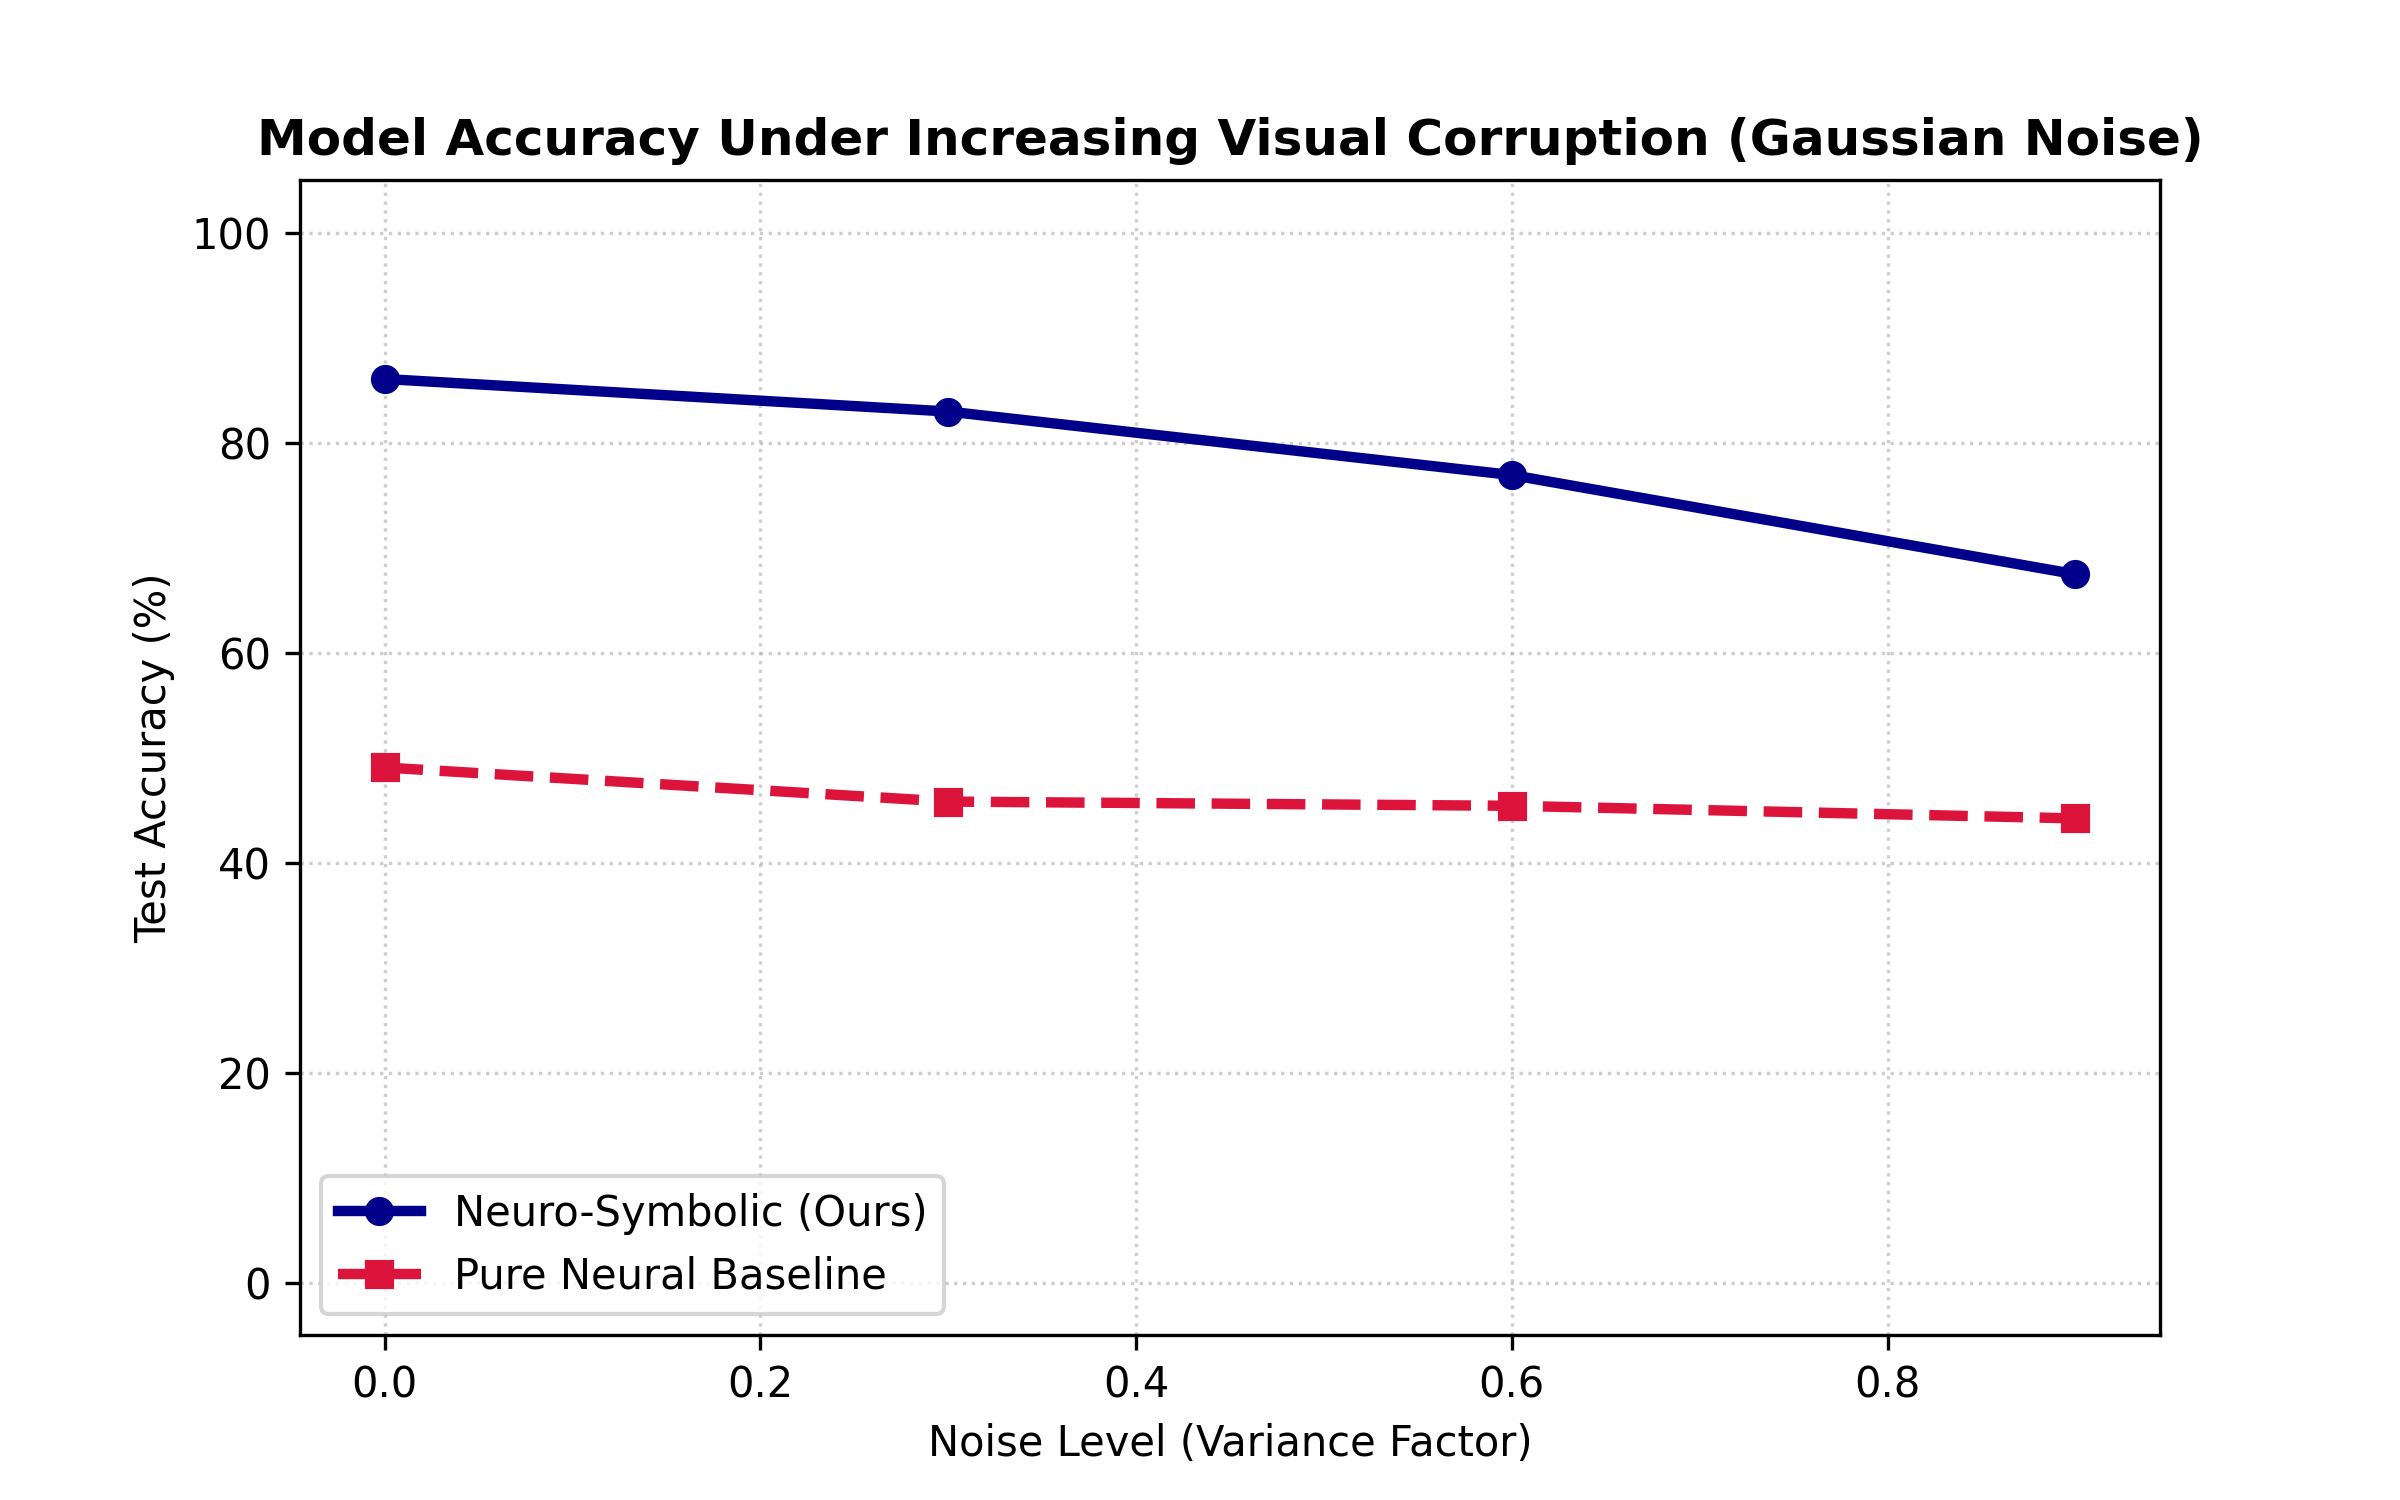
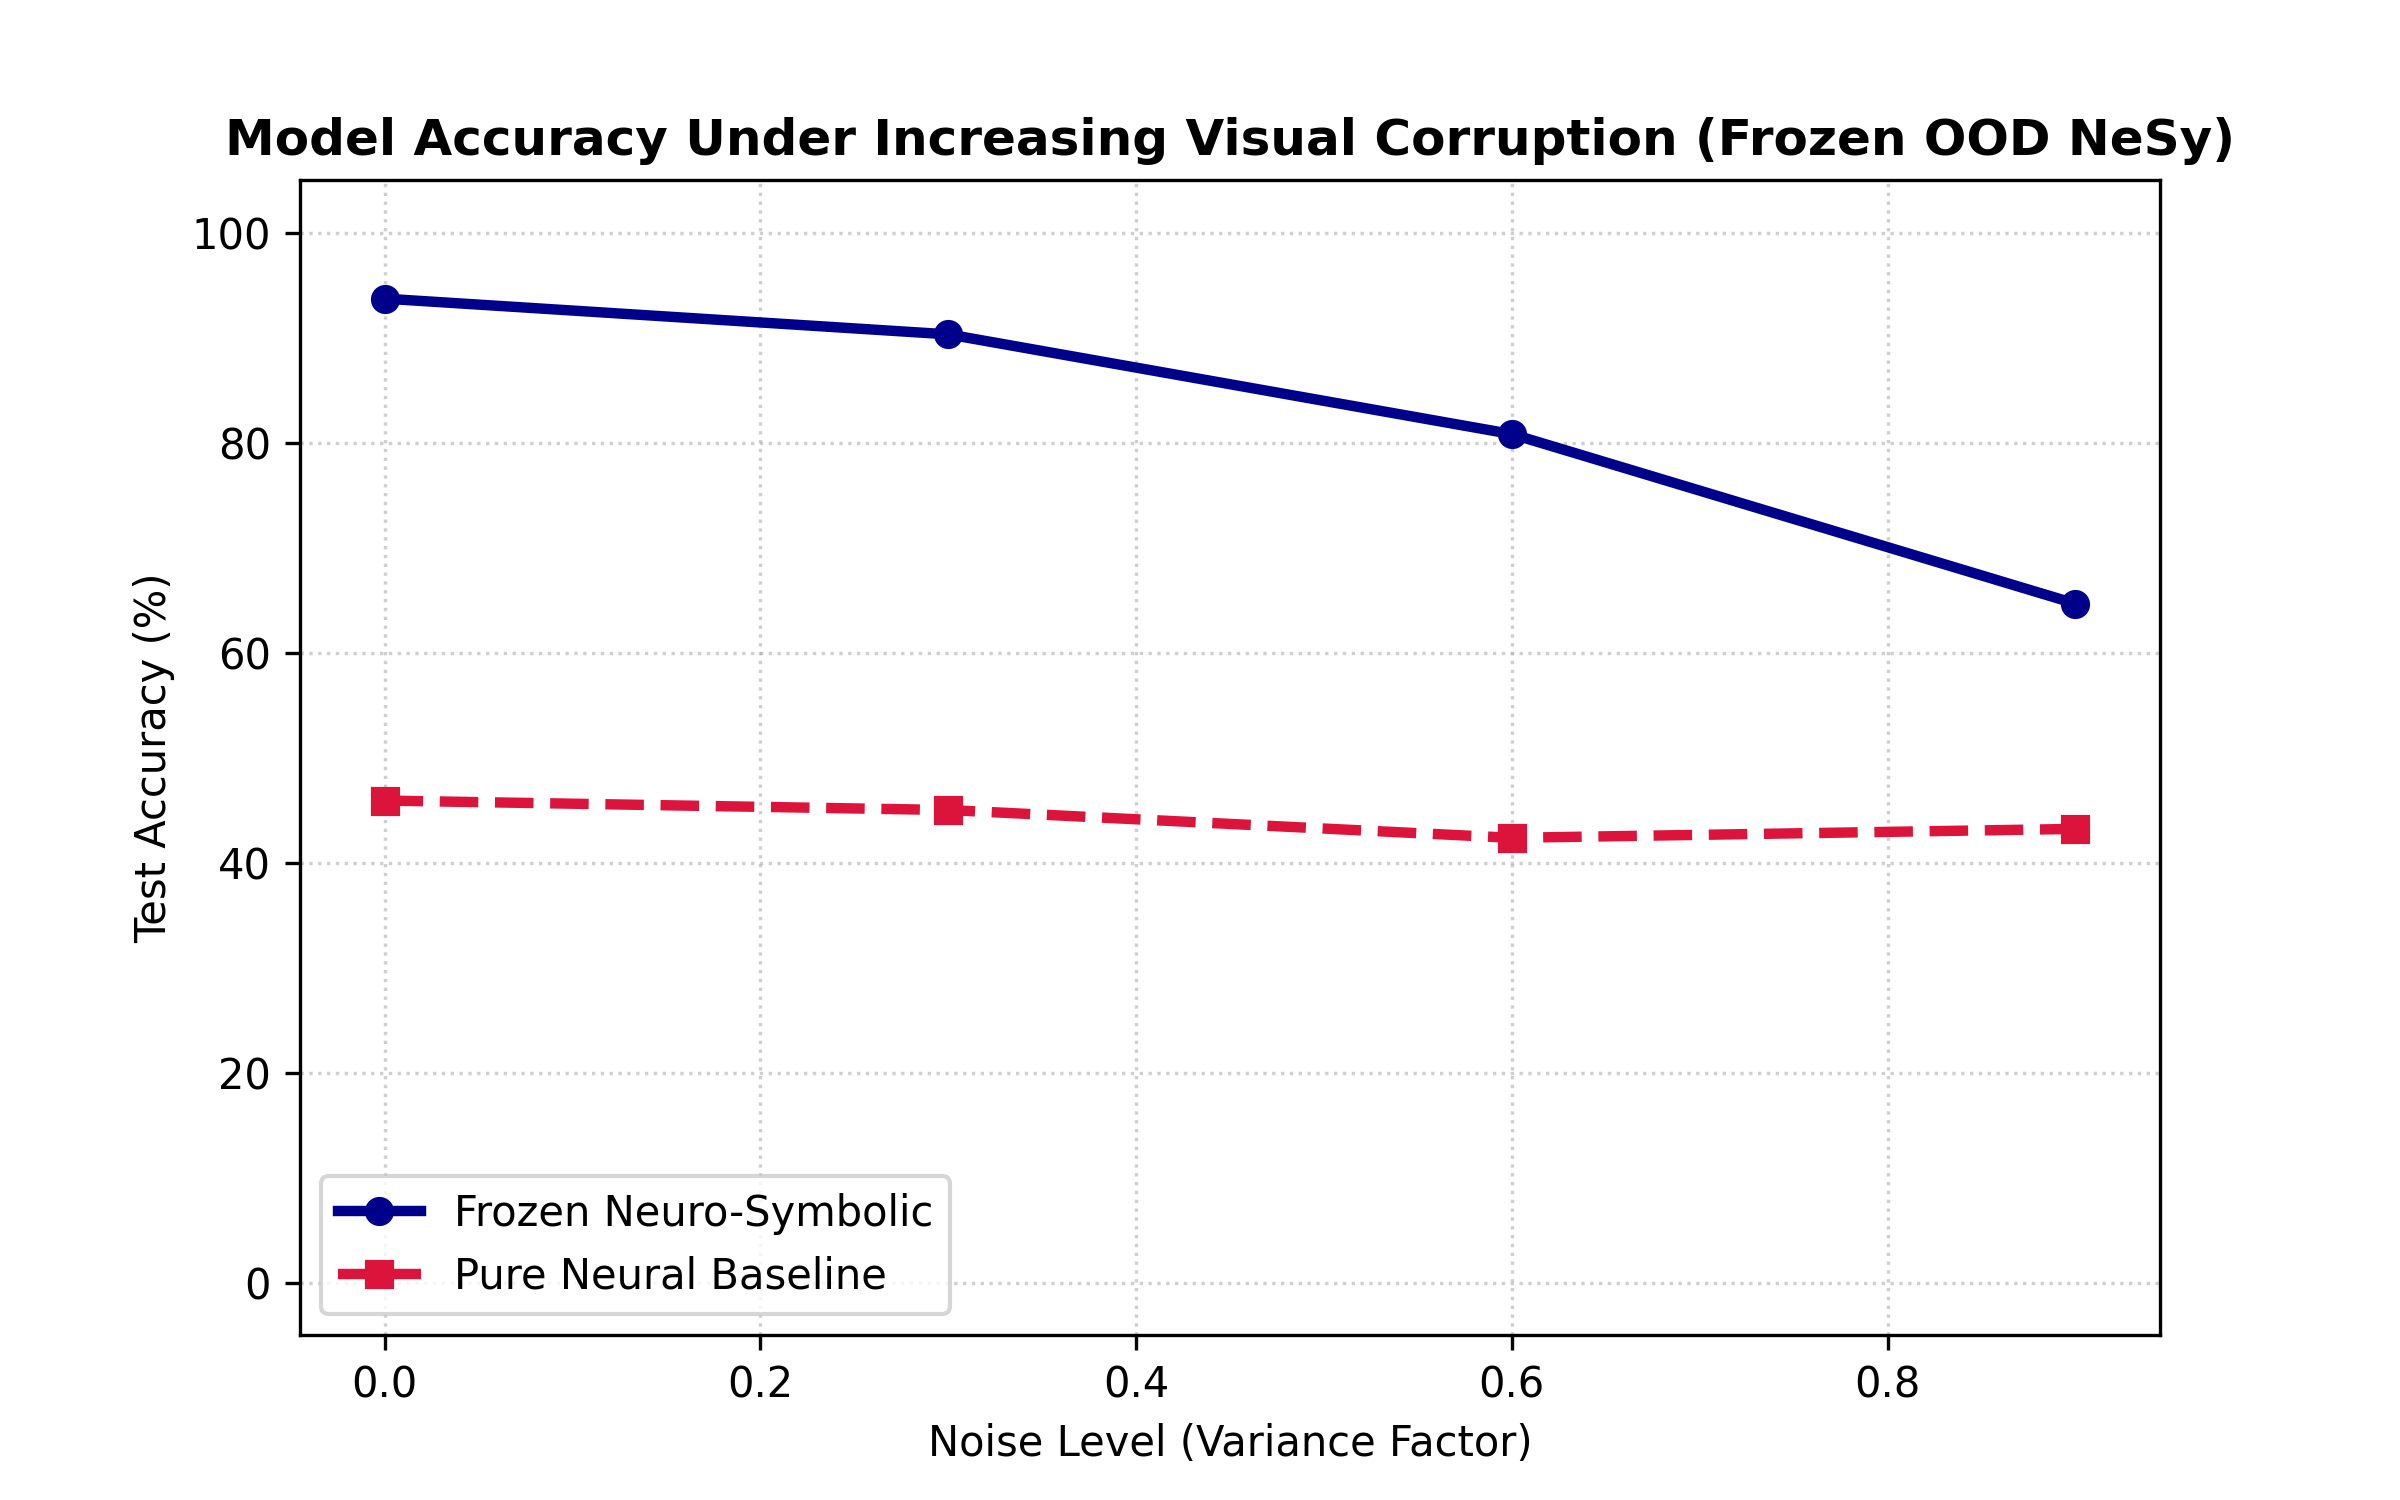
Freeze OOD perception backbone

diff --git a/nesy_addition.py b/nesy_addition.py
@@ -235,6 +235,11 @@ def train_single_digit_model(
     return model
 
 
+def freeze_module(module: nn.Module) -> None:
+    for parameter in module.parameters():
+        parameter.requires_grad = False
+
+
 def train_sum_model(
     model: nn.Module,
     loader: DataLoader,
@@ -471,18 +476,12 @@ def run_experiment(config: ExperimentConfig):
 
     ood_perception = PerceptionNet().to(device)
     train_single_digit_model(ood_perception, train_loader_single, device, config.perception_epochs)
+    freeze_module(ood_perception)
+    ood_perception.eval()
 
     ood_nesy = NeuroSymbolicAddition(ood_perception).to(device)
     ood_baseline = PureNeuralBaseline().to(device)
 
-    train_sum_model(
-        ood_nesy,
-        ood_train_loader,
-        device,
-        config.ood_epochs,
-        learning_rate=5e-4,
-        label="NeSy-OOD",
-    )
     train_sum_model(
         ood_baseline,
         ood_train_loader,
@@ -498,7 +497,7 @@ def run_experiment(config: ExperimentConfig):
     print(f"[OOD Test] NeSy accuracy: {ood_nesy_acc:.2f}%")
     print(f"[OOD Test] Baseline accuracy: {ood_baseline_acc:.2f}%")
 
-    print("\n== Noise robustness on the OOD-trained models ==")
+    print("\n== Noise robustness on the frozen OOD NeSy model ==")
     nesy_noise, baseline_noise = evaluate_noise_robustness(
         ood_nesy, ood_baseline, ood_test_loader, device, config.noise_levels
     )

diff --git a/README.md b/README.md
@@ -48,24 +48,24 @@ flowchart TD
 
 ## Latest observed results
 
-The notebook in this workspace has already been executed, but the script in [nesy_addition.py](nesy_addition.py) is the canonical reproducible entry point. The current notebook snapshot and the full script run tell two slightly different stories, so both are documented here.
+The notebook in this workspace has already been executed, but the script in [nesy_addition.py](nesy_addition.py) is the canonical reproducible entry point. The current notebook snapshot and the corrected full script run tell two different stories, so both are documented here.
 
 | Experiment | Neuro-Symbolic | Baseline |
 | --- | ---: | ---: |
 | Notebook snapshot: standard test split | 96.95% | 79.10% |
-| Notebook snapshot: OOD digit-range split | 29.80% | 0.00% |
-| Notebook snapshot: noise level 0.0 | 78.65% | 44.90% |
-| Notebook snapshot: noise level 0.3 | 75.05% | 42.05% |
-| Notebook snapshot: noise level 0.6 | 70.20% | 44.25% |
-| Notebook snapshot: noise level 0.9 | 64.25% | 41.05% |
+| Notebook snapshot: OOD digit-range split | 92.20% | 0.00% |
+| Notebook snapshot: noise level 0.0 | 93.70% | 45.90% |
+| Notebook snapshot: noise level 0.3 | 90.30% | 45.00% |
+| Notebook snapshot: noise level 0.6 | 80.80% | 42.35% |
+| Notebook snapshot: noise level 0.9 | 64.65% | 43.20% |
 | Full script run: standard test split | 98.05% | 72.80% |
-| Full script run: OOD digit-range split | 18.40% | 0.00% |
-| Full script run: noise level 0.0 | 4.00% | 0.00% |
-| Full script run: noise level 0.3 | 2.55% | 0.00% |
-| Full script run: noise level 0.6 | 0.70% | 0.00% |
-| Full script run: noise level 0.9 | 0.20% | 0.00% |
+| Full script run: OOD digit-range split | 96.30% | 0.00% |
+| Full script run: noise level 0.0 | 93.15% | 0.00% |
+| Full script run: noise level 0.3 | 92.00% | 0.00% |
+| Full script run: noise level 0.6 | 87.10% | 0.00% |
+| Full script run: noise level 0.9 | 73.45% | 0.00% |
 
-The notebook numbers come from the cells already saved in this workspace. The full script numbers come from running `python nesy_addition.py` in this repository after the clean rewrite. The gap between the notebook snapshot and the full script is explained by the different training budget and the fact that the script retrains fresh models before each evaluation block.
+The notebook numbers come from the cells already saved in this workspace. The full script numbers come from running `python nesy_addition.py` in this repository after the OOD freeze fix. The gap between the notebook snapshot and the full script is explained by the different training budget and the fact that the script now freezes the OOD perception backbone instead of fine-tuning it on the shifted digit range.
 
 ## How to run
 
@@ -111,13 +111,14 @@ The script writes these files into `results/`:
 - The symbolic layer is explicit and small enough to describe in one paragraph.
 - The baseline is a plain dense classifier, so the comparison is easy to understand.
 - The README and charts separate the experiment story from the code.
+- The OOD phase now freezes the perception backbone, which makes the compositionality claim easier to defend.
 
 ## Findings map
 
 - Standard MNIST addition is a sanity check: the neuro-symbolic path learns the arithmetic rule more cleanly than the dense baseline.
-- The OOD split is the strongest compositionality test in the repo: the baseline falls to zero, while the neuro-symbolic model still keeps partial accuracy because the addition rule itself is fixed.
-- The noise experiment isolates the perceptual bottleneck: once the digit recognizer is weak or undertrained, the symbolic layer cannot rescue the prediction.
-- The main lesson is that the symbolic rule removes arithmetic ambiguity, but it does not remove dependence on digit recognition quality.
+- The OOD split is the strongest compositionality test in the repo: freezing the perception backbone preserves the digit features needed for 8 and 9, while the baseline still falls to zero.
+- The noise experiment now measures robustness of a fixed perception backbone plus symbolic sum layer rather than post-training drift.
+- The main lesson is that the symbolic rule removes arithmetic ambiguity, but it still depends on the quality of the perceptual representation.
 
 ## Notes
 

diff --git a/FINDINGS.md b/FINDINGS.md
@@ -13,26 +13,26 @@ This project compares a neuro-symbolic digit-addition model against a dense end-
 
 ## Full-run results
 
-These are the numbers from running `python nesy_addition.py` in this repository.
+These are the numbers from running `python nesy_addition.py` in this repository after freezing the OOD perception backbone.
 
 | Experiment | Neuro-Symbolic | Baseline |
 | --- | ---: | ---: |
 | Standard test split | 98.05% | 72.80% |
-| OOD digit-range split | 18.40% | 0.00% |
-| Noise level 0.0 | 4.00% | 0.00% |
-| Noise level 0.3 | 2.55% | 0.00% |
-| Noise level 0.6 | 0.70% | 0.00% |
-| Noise level 0.9 | 0.20% | 0.00% |
+| OOD digit-range split | 96.30% | 0.00% |
+| Noise level 0.0 | 93.15% | 0.00% |
+| Noise level 0.3 | 92.00% | 0.00% |
+| Noise level 0.6 | 87.10% | 0.00% |
+| Noise level 0.9 | 73.45% | 0.00% |
 
 ## What the results mean
 
 - The standard split shows that the neuro-symbolic path can solve the task cleanly when the digit recognizer is sufficiently trained.
-- The OOD split shows the baseline collapsing completely, which is consistent with a model that learns pixels-to-sum shortcuts rather than an arithmetic rule.
-- The noise experiment shows the bottleneck clearly: the symbolic layer is stable, but it cannot recover from a weak perception model.
+- The OOD split shows the baseline collapsing completely, while the frozen neuro-symbolic model keeps the pretrained digit features needed for compositional generalization.
+- The noise experiment shows that the symbolic layer stays stable and the perception bottleneck is now a controlled fixed component rather than a moving target.
 
 ## Interpretation you can present to someone
 
-The strongest claim here is not that the neuro-symbolic system is magically immune to distribution shift. The defensible claim is narrower and better: once the perception module is good enough, the explicit sum rule gives a cleaner, more interpretable path than a pure neural baseline. The failure mode is equally useful, because it shows exactly where the system breaks when the input channel becomes unreliable.
+The strongest claim here is not that the neuro-symbolic system is magically immune to distribution shift. The defensible claim is narrower and better: once the perception module is pretrained and frozen, the explicit sum rule gives a cleaner, more interpretable path than a pure neural baseline, and the OOD task exposes that the baseline still lacks a stable compositional rule.
 
 ## Reproducibility
 
@@ -43,4 +43,4 @@ The strongest claim here is not that the neuro-symbolic system is magically immu
 
 ## Practical note
 
-The quick mode is useful for checking that the pipeline still works, but it is not the right run to cite in a paper or presentation. Use the full run if you want the most defensible results from this codebase.
+The quick mode is useful for checking that the pipeline still works, but it is not the right run to cite in a paper or presentation. Use the full run after the freeze fix if you want the most defensible results from this codebase.